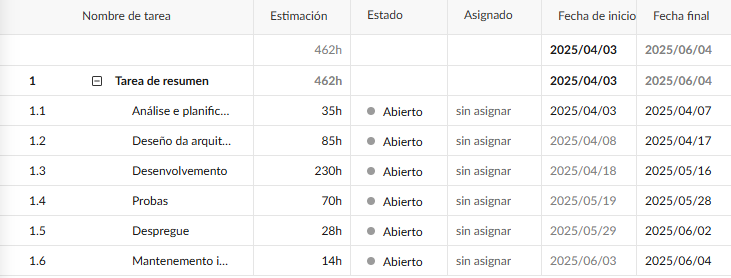
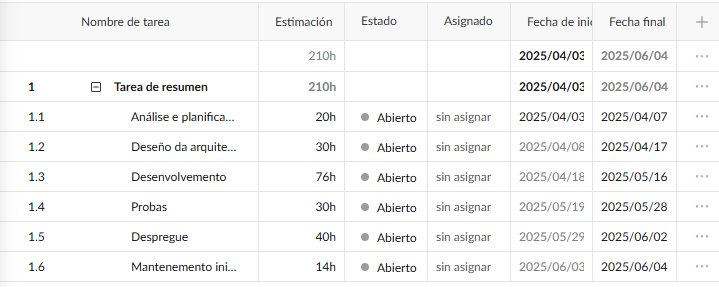
Readme

diff --git a/README.md b/README.md
@@ -62,4 +62,21 @@ Esta arquitectura está diseñada para facilitar:
 
 ## Clockify
 
+![clockify1](src/img/Clockify1.png)
+![clockify2](src/img/Clockify2.png)
 
+## 9. Presupuesto de la aplicación
+
+A continuación se detalla el presupuesto estimado para el desarrollo de la aplicación, incluyendo el coste del software amortizado utilizado en cada fase del ciclo de vida:
+
+| Fase           | Horas estimadas | Coste/hora | Coste personal | Software utilizado           | Coste software amortizado | Coste total fase |
+|----------------|-----------------|------------|----------------|-----------------------------|---------------------------|------------------|
+| Análisis       | 20              | 20 €       | 400 €          | VS Code, Clockify           | 0 €                       | 400 €            |
+| Diseño         | 30              | 20 €       | 600 €          | Figma (10 €), Photoshop     | 10 €                      | 610 €            |
+| Desarrollo     | 76              | 20 €       | 1.520 €        | VS Code, Node, GitHub       | 10 €                      | 1.530 €          |
+| Pruebas        | 30              | 20 €       | 600 €          | GitHub                      | 0 €                       | 600 €            |
+| Despliegue     | 40              | 20 €       | 800 €          | VS Code, Hosting (15 €)     | 5 €                       | 805 €            |
+| Mantenimiento  | 14             | 20 €       | 280 €          | VS Code                     | 0 €                       | 280 €            |
+| **TOTAL**      | **210**         |            | **4.200 €**    |                             | **25 €**                  | **4.225 €**      |
+
+> **Nota:** El coste del software amortizado se calcula en función del tiempo de uso de las licencias durante el proyecto. La mayoría de las herramientas empleadas son gratuitas o de código abierto, salvo indicación expresa.
